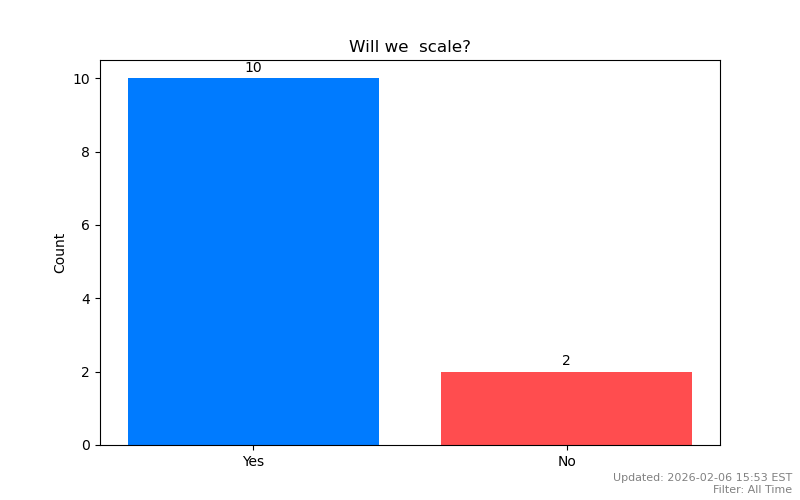
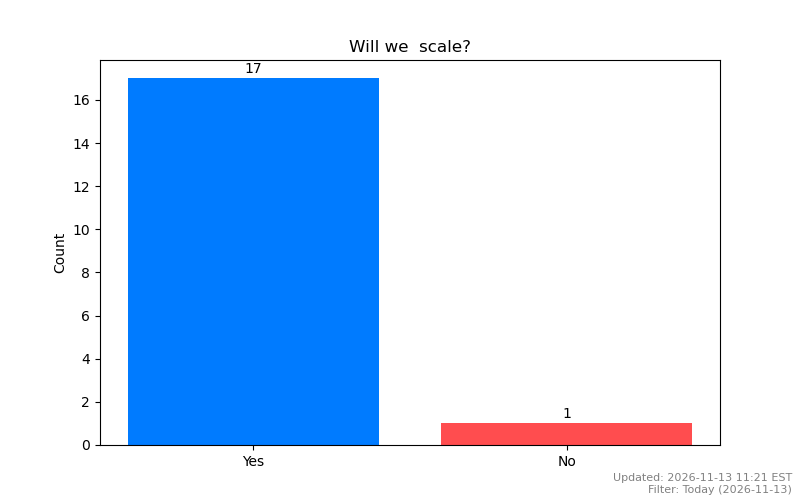
Deployed 6832065 with MkDocs version: 1.6.1

diff --git a/charts_aQ4xxXEnAM6UMiiRZoaGLM.html b/charts_aQ4xxXEnAM6UMiiRZoaGLM.html
@@ -21,37 +21,5 @@
     </head>
     <body>
         <h1>Can we do it?</h1>
-        <p class="meta">Form ID: aQ4xxXEnAM6UMiiRZoaGLM | Submissions: 12</p>
-    
-            <div class="chart-container">
-                <img src="chart_aQ4xxXEnAM6UMiiRZoaGLM_willwe.png" alt="Will we adequately honor cogeneration and governance when we scale insurance?">
-            </div>
-            
-            <div class="chart-container">
-                <img src="chart_aQ4xxXEnAM6UMiiRZoaGLM_exploit.png" alt="Will we exploit the farmers we intend to help?">
-            </div>
-            
-            <div class="chart-container">
-                <img src="chart_aQ4xxXEnAM6UMiiRZoaGLM_help.png" alt="Will we help farmers?">
-            </div>
-            
-            <div class="chart-container">
-                <img src="chart_aQ4xxXEnAM6UMiiRZoaGLM_scale.png" alt="Will we  scale?">
-            </div>
-            
-            <div class="chart-container">
-                <img src="chart_aQ4xxXEnAM6UMiiRZoaGLM_undermine.png" alt="Will we undermine local and national governance?">
-            </div>
-            
-            <div class="chart-container">
-                <img src="chart_aQ4xxXEnAM6UMiiRZoaGLM_greedy.png" alt="Will we fail to benefit farmers because deep down we intend to exploit them?">
-            </div>
-            
-            <div class="chart-container">
-                <img src="chart_aQ4xxXEnAM6UMiiRZoaGLM_lazyandcheap.png" alt="Will we fail because we are not willing to work hard enough/invest enough even if we care deeply?">
-            </div>
-            
-            <div class="chart-container">
-                <img src="chart_aQ4xxXEnAM6UMiiRZoaGLM_shouldwetry.png" alt="Should we try?">
-            </div>
-            </body></html>
+        <p class="meta">Form ID: aQ4xxXEnAM6UMiiRZoaGLM | Submissions: 18</p>
+    <div class="chart-container"><img src="chart_aQ4xxXEnAM6UMiiRZoaGLM_willwe.png" alt="Will we adequately honor cogeneration and governance when we scale insurance?"></div><div class="chart-container"><img src="chart_aQ4xxXEnAM6UMiiRZoaGLM_exploit.png" alt="Will we exploit the farmers we intend to help?"></div><div class="chart-container"><img src="chart_aQ4xxXEnAM6UMiiRZoaGLM_help.png" alt="Will we help farmers?"></div><div class="chart-container"><img src="chart_aQ4xxXEnAM6UMiiRZoaGLM_scale.png" alt="Will we  scale?"></div><div class="chart-container"><img src="chart_aQ4xxXEnAM6UMiiRZoaGLM_undermine.png" alt="Will we undermine local and national governance?"></div><div class="chart-container"><img src="chart_aQ4xxXEnAM6UMiiRZoaGLM_greedy.png" alt="Will we fail to benefit farmers because deep down we intend to exploit them?"></div><div class="chart-container"><img src="chart_aQ4xxXEnAM6UMiiRZoaGLM_lazyandcheap.png" alt="Will we fail because we are not willing to work hard enough/invest enough even if we care deeply?"></div><div class="chart-container"><img src="chart_aQ4xxXEnAM6UMiiRZoaGLM_shouldwetry.png" alt="Should we try?"></div></body></html>
